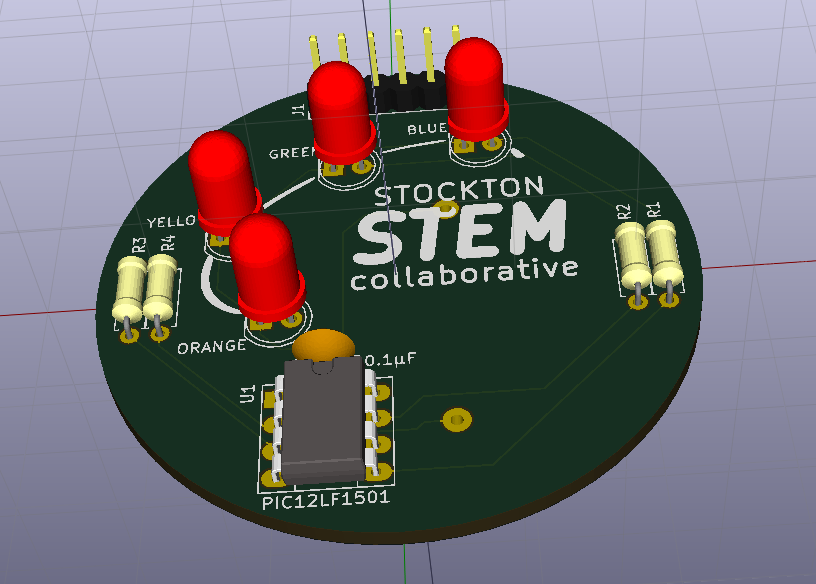
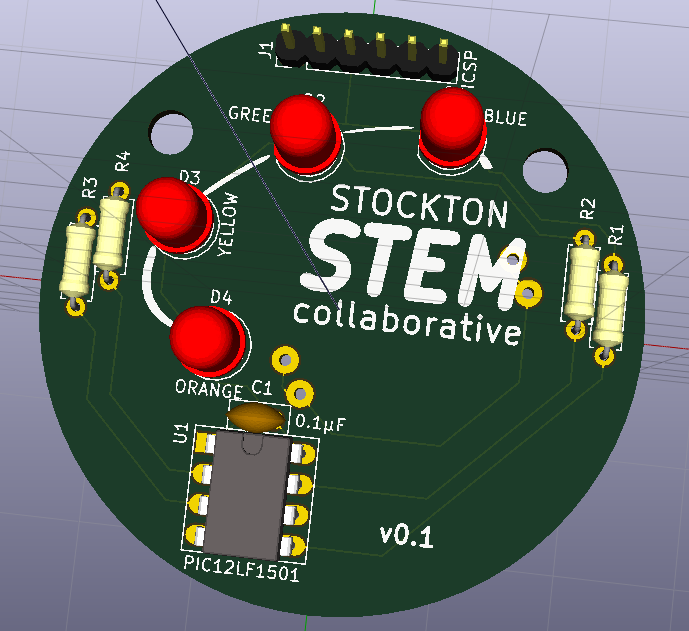
Board revision 0.1
- Fix solder mask layer for battery footprint
- Board and schematic revision set to 0.1
- Place two holes on board for badge mounting options
- Place revision number on board (later see if this can be automagic)
- Add OSH Park board renders; update README
- Order boards from OSH Park

diff --git a/README.md b/README.md
@@ -55,6 +55,13 @@ Prototype 1 on strip-board:
 
 ![First prototype](https://raw.githubusercontent.com/stockton-stem/stockton-stem-badge/master/images/prototype1.jpg)
 
+### Board v0.1 render by OSH Park
+
+![OSH Park v0.1 front](https://raw.githubusercontent.com/stockton-stem/stockton-stem-badge/master/images/board-v0.1-osh-front)
+
+![OSH Park v0.1 back](https://raw.githubusercontent.com/stockton-stem/stockton-stem-badge/master/images/board-v0.1-osh-back)
+
+
 
 # License
 
